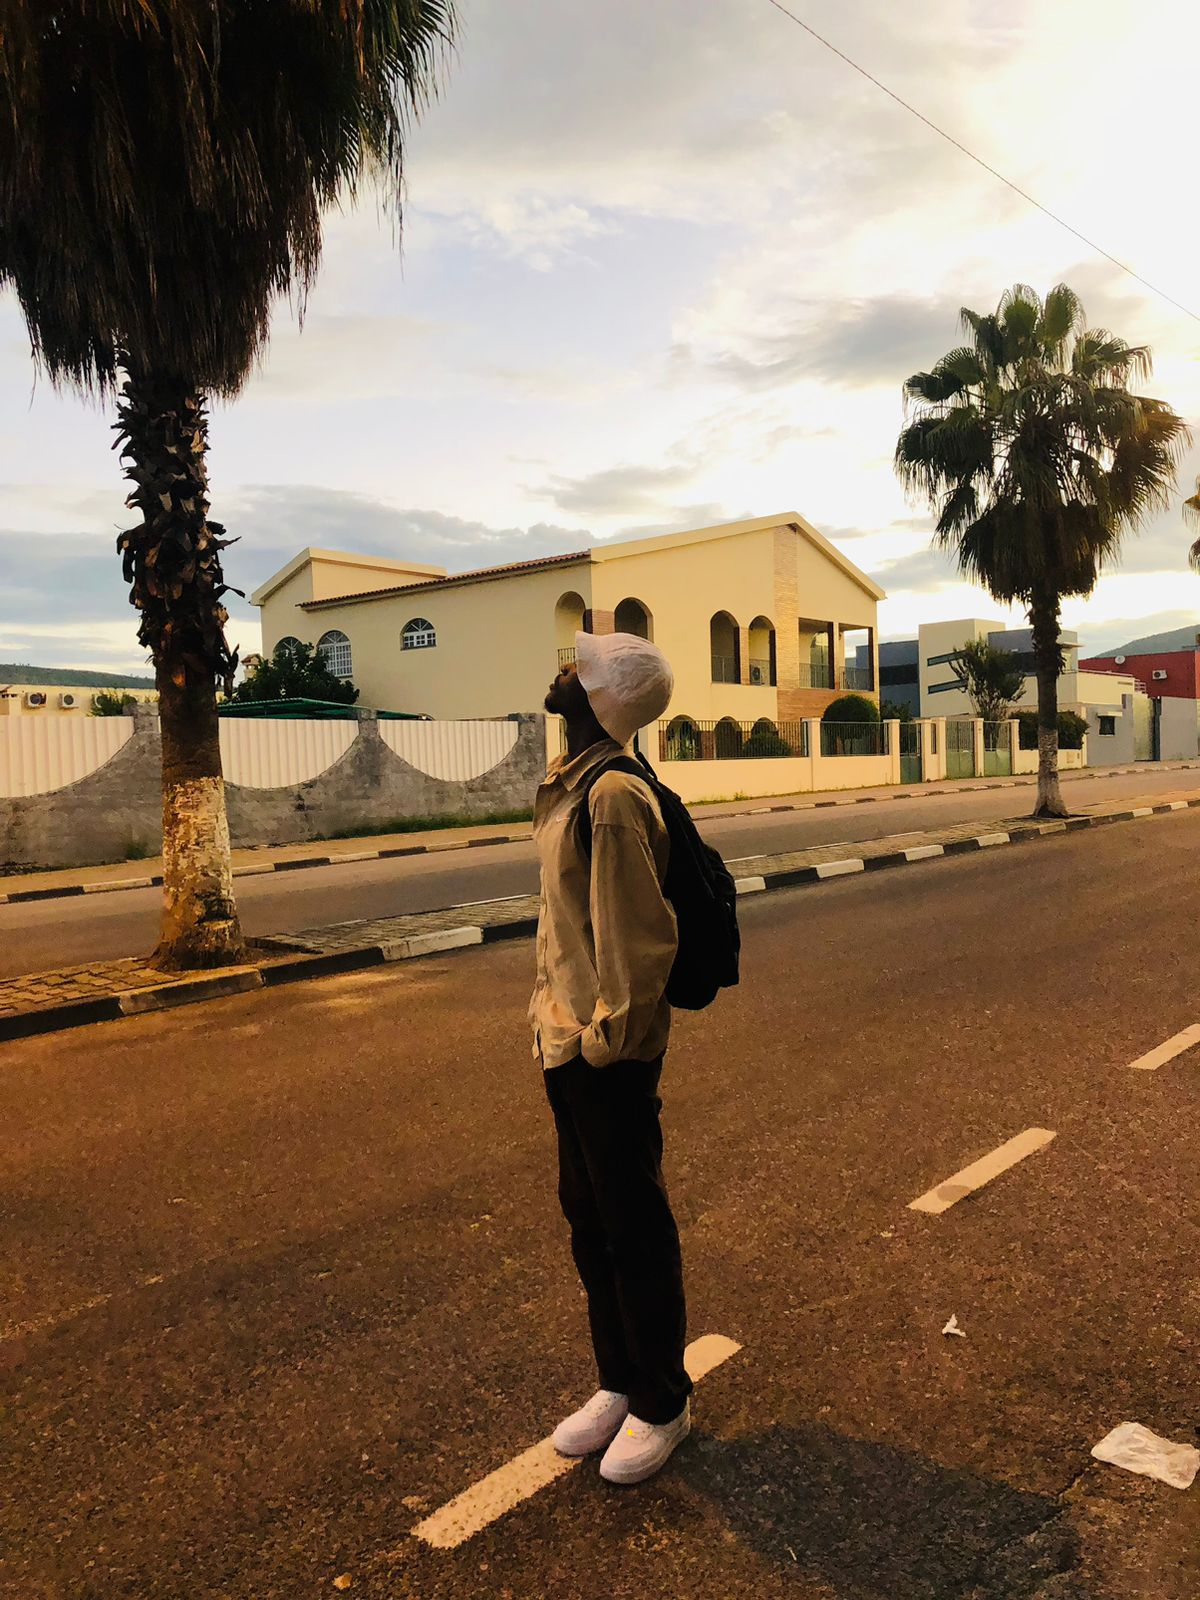
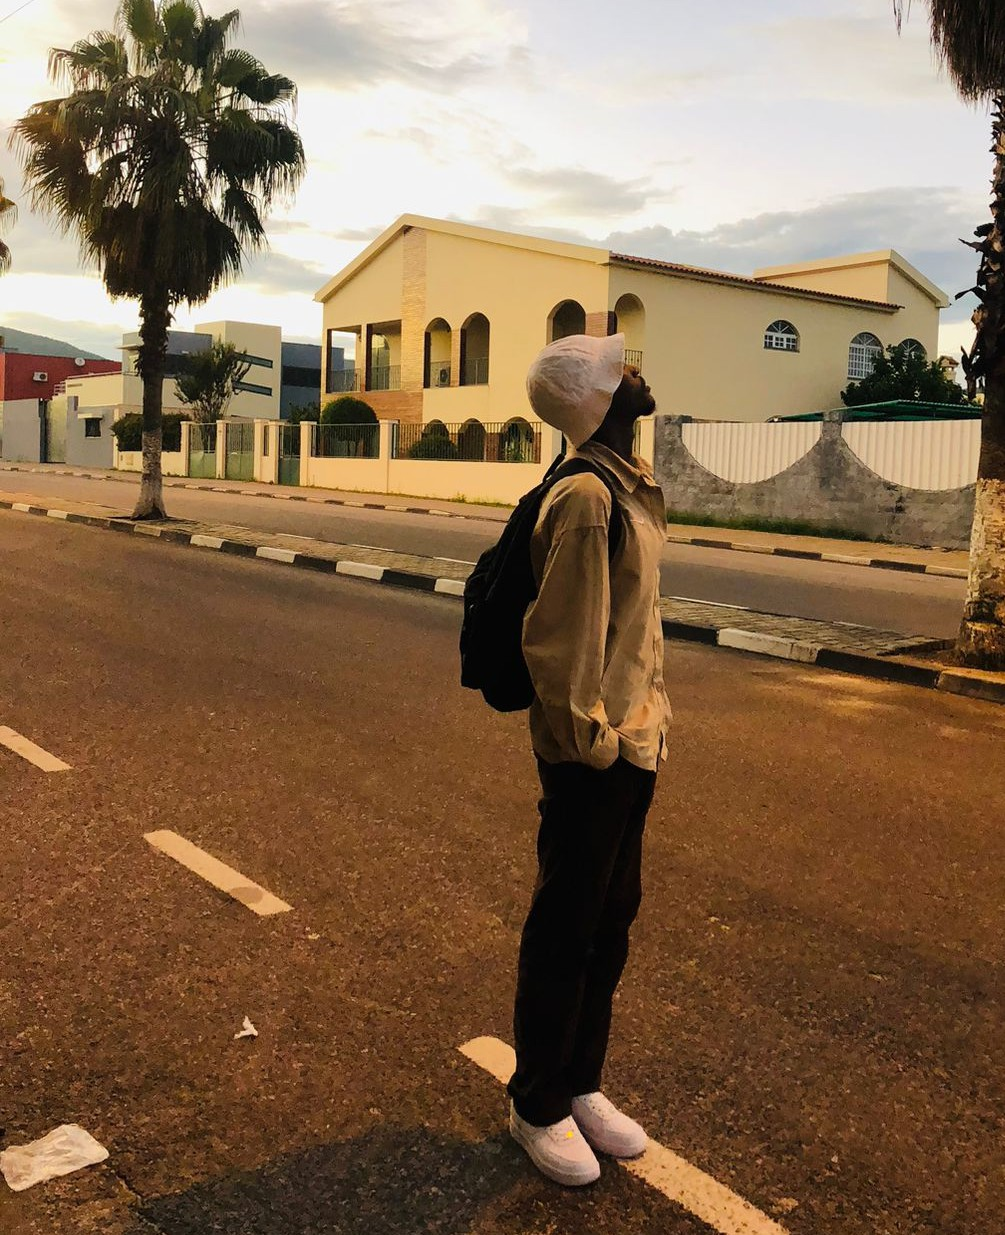
Fix: migrate uploads to Supabase Storage

diff --git a/backend/server/index.js b/backend/server/index.js
@@ -10,6 +10,7 @@ import multer from 'multer';
 import path from 'path';
 import fs from 'fs';
 import { fileURLToPath } from 'url';
+import { createClient } from '@supabase/supabase-js';
 
 dotenv.config();
 
@@ -21,31 +22,21 @@ const prisma = new PrismaClient();
 const PORT = process.env.PORT || 3000;
 const JWT_SECRET = process.env.JWT_SECRET || 'super-secret-key';
 
-// Configurar pasta de uploads
-const uploadsDir = path.join(__dirname, '../uploads');
-if (!fs.existsSync(uploadsDir)) {
-  fs.mkdirSync(uploadsDir, { recursive: true });
-  console.log('📁 Pasta de uploads criada:', uploadsDir);
+// Inicializar Supabase
+const supabaseUrl = process.env.SUPABASE_URL;
+const supabaseKey = process.env.SUPABASE_ANON_KEY;
+const bucketName = process.env.SUPABASE_BUCKET || 'portfolio-uploads';
+
+let supabase;
+if (supabaseUrl && supabaseKey) {
+  supabase = createClient(supabaseUrl, supabaseKey);
+  console.log('✅ Supabase conectado');
+} else {
+  console.warn('⚠  Variáveis Supabase não configuradas');
 }
 
-// Configurar armazenamento de ficheiros
-const storage = multer.diskStorage({
-  destination: (req, file, cb) => {
-    cb(null, uploadsDir);
-  },
-  filename: (req, file, cb) => {
-    // Sanitizar nome: remover acentos, espaços e caracteres especiais
-    const sanitized = file.originalname
-      .normalize('NFD')
-      .replace(/[\u0300-\u036f]/g, '')
-      .replace(/[^a-zA-Z0-9._-]/g, '_')
-      .replace(/__+/g, '_')
-      .toLowerCase();
-    
-    const fileName = `${Date.now()}-${sanitized}`;
-    cb(null, fileName);
-  }
-});
+// Configurar multer para armazenamento em memória
+const storage = multer.memoryStorage();
 
 const upload = multer({ 
   storage: storage,
@@ -59,10 +50,6 @@ const upload = multer({
     }
   }
 });
-
-
-// Servir ficheiros da pasta uploads
-app.use('/uploads', express.static(uploadsDir));
 
 // Origens permitidas (dev + produção)
 const allowedOrigins = [
@@ -138,23 +125,56 @@ app.delete('/api/projects/:id', authenticate, async (req, res) => {
 });
 
 // Upload Route — Supabase Storage
-// Upload Route — Armazenamento Local
 app.post('/api/upload', authenticate, upload.single('image'), async (req, res) => {
-  if (!req.file) {
-    return res.status(400).json({ error: 'Nenhuma imagem enviada' });
+  try {
+    if (!req.file) {
+      return res.status(400).json({ error: 'Nenhuma imagem enviada' });
+    }
+
+    if (!supabase) {
+      return res.status(500).json({ error: 'Armazenamento não configurado' });
+    }
+
+    // Sanitizar nome do ficheiro
+    const sanitized = req.file.originalname
+      .normalize('NFD')
+      .replace(/[\u0300-\u036f]/g, '')
+      .replace(/[^a-zA-Z0-9._-]/g, '_')
+      .replace(/__+/g, '_')
+      .toLowerCase();
+    
+    const fileName = `${Date.now()}-${sanitized}`;
+    const filePath = `portfolio/${fileName}`;
+
+    // Upload para Supabase Storage
+    const { data, error } = await supabase.storage
+      .from(bucketName)
+      .upload(filePath, req.file.buffer, {
+        contentType: req.file.mimetype,
+        upsert: false
+      });
+
+    if (error) {
+      console.error('❌ Erro ao fazer upload:', error);
+      return res.status(500).json({ error: 'Erro ao fazer upload da imagem' });
+    }
+
+    // Obter URL pública
+    const { data: { publicUrl } } = supabase.storage
+      .from(bucketName)
+      .getPublicUrl(filePath);
+
+    console.log('📤 Upload para Supabase bem-sucedido:', {
+      fileName: fileName,
+      size: req.file.size,
+      url: publicUrl
+    });
+
+    res.json({ imageUrl: publicUrl });
+  } catch (error) {
+    console.error('❌ Erro no upload:', error);
+    res.status(500).json({ error: 'Erro ao processar upload' });
   }
-
-  console.log('📤 Upload bem-sucedido:', {
-    fileName: req.file.filename,
-    size: req.file.size,
-    mimetype: req.file.mimetype
-  });
-
-  // URL relativa da imagem
-  const imageUrl = `/uploads/${req.file.filename}`;
-  
-  console.log('🔗 URL da imagem:', imageUrl);
-  res.json({ imageUrl });
 });
 
 // Services API
@@ -208,7 +228,7 @@ if (fs.existsSync(distPath)) {
   // Fallback para o index principal
   app.get('*', (req, res) => {
     // Não interceptar rotas de API
-    if (req.path.startsWith('/api') || req.path.startsWith('/uploads')) return;
+    if (req.path.startsWith('/api')) return;
     res.sendFile(path.join(distPath, 'index.html'));
   });
   console.log(`📁 A servir frontend de: ${distPath}`);

diff --git a/frontend/index.html b/frontend/index.html
@@ -143,7 +143,7 @@
         <div class="about-wrapper">
           <div class="about-image reveal">
             <div class="about-img-frame">
-              <img src="./src/assets/img/eu1.png" alt="Eldissone Vilonga" loading="lazy">
+              <img src="./src/assets/img/eu.png" alt="Eldissone Vilonga" loading="lazy">
             </div>
             <div class="about-stats">
               <div class="stat-card">

diff --git a/UPLOAD_FIX_GUIDE.md b/UPLOAD_FIX_GUIDE.md
@@ -1,0 +1,77 @@
+# Upload Endpoint Fix - Supabase Storage Integration
+
+## Problem
+The `/api/upload` endpoint was returning a 500 error on Vercel because it used `multer.diskStorage()` to save files locally. **Vercel's serverless environment doesn't support persistent file system writes** - files written to disk during function execution are deleted immediately after.
+
+## Solution
+Migrated to **Supabase Storage** for cloud-based file uploads.
+
+## Setup Instructions
+
+### 1. Create Supabase Project (if not already done)
+- Go to [supabase.com](https://supabase.com)
+- Create a new project
+- Navigate to **Storage** section
+- Create a new bucket named `portfolio-uploads`
+- Set the bucket to **Public** so files are accessible
+
+### 2. Get Supabase Credentials
+In your Supabase dashboard:
+1. Go to **Settings** → **API**
+2. Copy:
+   - `Project URL` (SUPABASE_URL)
+   - `anon` public key (SUPABASE_ANON_KEY)
+
+### 3. Configure Vercel Environment Variables
+In your Vercel project dashboard:
+1. Go to **Settings** → **Environment Variables**
+2. Add these variables:
+
+```
+SUPABASE_URL=https://your-project.supabase.co
+SUPABASE_ANON_KEY=your_anon_key_here
+SUPABASE_BUCKET=portfolio-uploads
+```
+
+### 4. Local Testing
+Create or update your `.env` file in `backend/`:
+```
+SUPABASE_URL=https://your-project.supabase.co
+SUPABASE_ANON_KEY=your_anon_key_here
+SUPABASE_BUCKET=portfolio-uploads
+```
+
+Then run:
+```bash
+npm install  # Ensure @supabase/supabase-js is installed
+npm run dev
+```
+
+### 5. Redeploy
+Push changes to GitHub and Vercel will redeploy automatically:
+```bash
+git add .
+git commit -m "Fix: migrate file uploads to Supabase Storage"
+git push
+```
+
+## Changes Made
+- ✅ Replaced `multer.diskStorage()` with `multer.memoryStorage()`
+- ✅ Added Supabase client initialization
+- ✅ Updated `/api/upload` to upload files to Supabase Storage
+- ✅ Files now stored with public URLs that work on production
+
+## Testing the Upload
+Use any API client (Postman, curl, etc.):
+```bash
+curl -X POST http://localhost:3000/api/upload \
+  -H "Authorization: Bearer YOUR_JWT_TOKEN" \
+  -F "image=@/path/to/image.jpg"
+```
+
+Expected response:
+```json
+{
+  "imageUrl": "https://your-project.supabase.co/storage/v1/object/public/portfolio-uploads/portfolio/1234567890-image.jpg"
+}
+```
